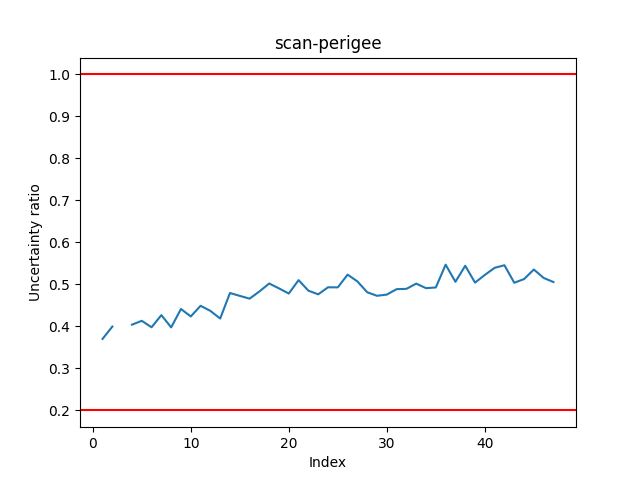
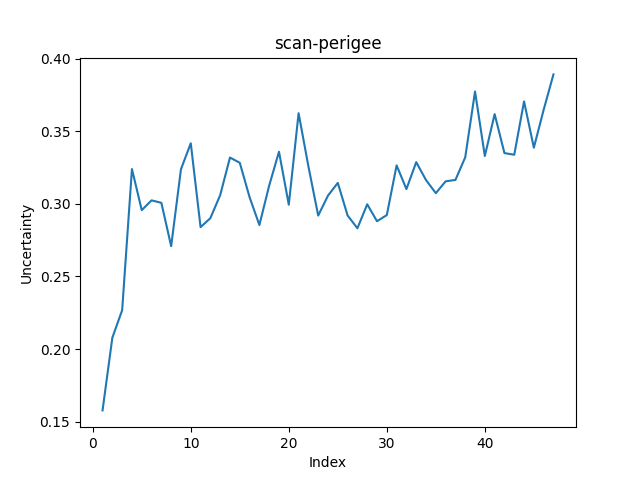
Told scans to write 1 and 2 sigma distributions of uncertainties as well.

diff --git a/code/thresholds/thresholds.py b/code/thresholds/thresholds.py
@@ -6,7 +6,7 @@ THRESHOLDS = ((1, True), (0.2, False))
 INCREASING = {
     "observation-gap": True,
     "probe-s-rho": True,
-    "probe-s-theta": True,
+    #"probe-s-theta": True,
     "scan-am": False,
     "scan-cadence": True,
     "scan-perigee": True,
@@ -38,7 +38,7 @@ for fname in os.listdir(DIRECTORY):
         plt.plot(uncs, label=fname[:-4])
         plt.title(fname[:-4])
         for threshold, wait in THRESHOLDS:
-            plt.axhline(y=threshold, c='r')
+            #plt.axhline(y=threshold, c='r')
 
             if INCREASING[fname[:-4]]:
                 where_more_than_one = np.where(uncs>threshold)[0]
@@ -50,7 +50,7 @@ for fname in os.listdir(DIRECTORY):
                 fraction = (threshold - uncs[thresh_index-1]) / (uncs[thresh_index] - uncs[thresh_index-1])
                 thresh = thresh_index - 1 + fraction
                 
-                plt.axvline(x=thresh, c='k')
+                #plt.axvline(x=thresh, c='k')
                 print(f"inc.\t{thresh}", end='\t')
 
             else:
@@ -77,10 +77,10 @@ for fname in os.listdir(DIRECTORY):
                     continue
                 fraction = (threshold - uncs[thresh_index]) / (uncs[thresh_index - 1] - uncs[thresh_index])
                 thresh = thresh_index - fraction
-                plt.axvline(x=thresh, c='k')
+                #plt.axvline(x=thresh, c='k')
                 print(f"dec.\t{thresh}", end='\t')
         print()
         plt.xlabel("Index")
-        plt.ylabel("Uncertainty ratio")
+        plt.ylabel("Uncertainty")
         plt.savefig(f"{fname[:-4]}.png")
 plt.show()

diff --git a/code/thresholds/fe/compute-uncs.py b/code/thresholds/fe/compute-uncs.py
@@ -62,7 +62,7 @@ def scan_directory(directory, index_lengths):
             indices = get_indices(dname, index_lengths)
             max_indices = np.maximum(max_indices, indices)
     max_indices += 1
-    uncs = np.ones(max_indices) * np.nan
+    uncs = np.ones((max_indices, 5)) * np.nan
 
     for dname in os.listdir(directory):
         run_name = directory+'/'+dname
@@ -154,8 +154,13 @@ def get_unc_for_file(dname, fname):
     if density_map is None:
         return np.nan
     uncertainty_ratio = uncertainty_map / density_map
-    mean_uncertainty = np.nanmean(np.abs(uncertainty_ratio))
-    return mean_uncertainty
+    return np.array([
+        np.nanpercentile(uncertainty_ratio, 100 - (100 - 95.45) / 2),
+        np.nanpercentile(uncertainty_ratio, 100 - (100 - 68.27) / 2),
+        np.nanpercentile(uncertainty_ratio, 50),
+        np.nanpercentile(uncertainty_ratio, (100 - 68.27) / 2),
+        np.nanpercentile(uncertainty_ratio, (100 - 95.45) / 2),
+    ])
 
 def scan_specific(directory, threshold):
     index_lengths = NAMES[directory]
